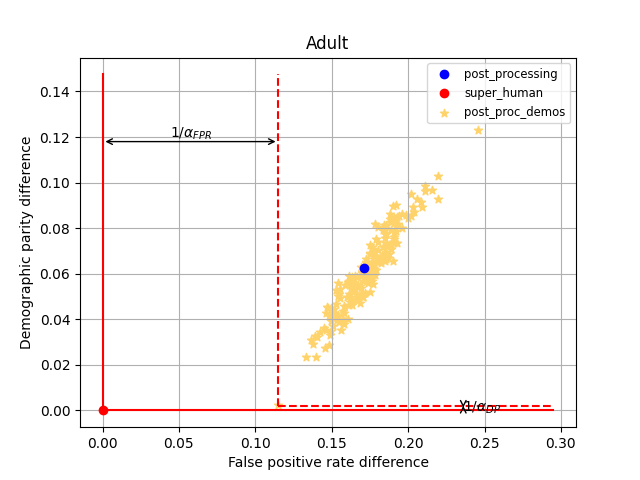
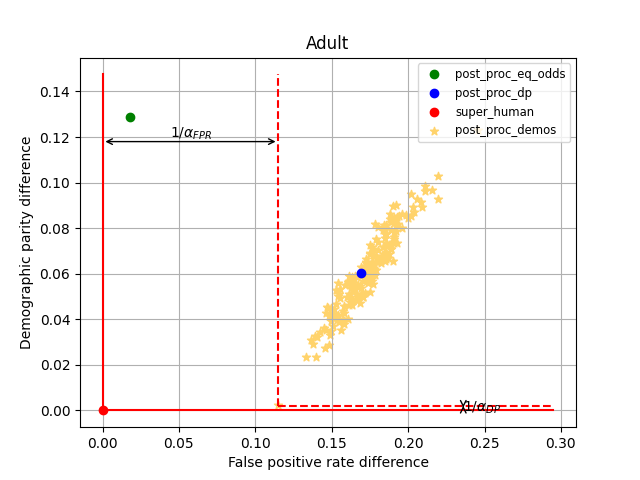
added post_processing with eq_odds constraint to the plots

Changed region(s): [[0.6562, 0.125, 0.9062, 0.3125], [0.5625, 0.5312, 0.5938, 0.5938], [0.1875, 0.2188, 0.2188, 0.25]]

diff --git a/main.py b/main.py
@@ -488,7 +488,7 @@ class Super_human:
 
 
 
-  def eval_model_pp(self):
+  def eval_model_pp(self, mode="demographic_parity"):
     train_file_path = os.path.join(self.train_data_path, "train_data.csv")
     test_file_path = os.path.join(self.test_data_path, "test_data.csv")
     self.train_data = pd.read_csv(train_file_path, index_col=0).drop(columns=['prev_index'])
@@ -509,7 +509,7 @@ class Super_human:
     # Post-processing
     postprocess_est = ThresholdOptimizer(
         estimator=model_logi,
-        constraints="demographic_parity", #"equalized_odds",
+        constraints=mode, #"equalized_odds",
         predict_method='auto',
         prefit=True)
     # Balanced data set is obtained by sampling the same number of points from the majority class (Y=0)
@@ -643,13 +643,15 @@ class Super_human:
 
   def test_model(self):
     eval_sh = self.eval_model(mode = "test-sh")
-    eval_pp = self.eval_model_pp()
+    eval_pp_dp = self.eval_model_pp(mode = "demographic_parity")
+    eval_pp_eq_odds = self.eval_model_pp(mode = "equalized_odds")
     print()
     print(eval_sh)
     print()
-    print(eval_pp)
+    print(eval_pp_dp)
     self.model_params["eval_sh"]= eval_sh
-    self.model_params["eval_pp"]= eval_pp
+    self.model_params["eval_pp_dp"]= eval_pp_dp
+    self.model_params["eval_pp_eq_odds"] = eval_pp_eq_odds
     experiment_filename = make_experiment_filename(dataset = self.dataset, lr_theta = self.lr_theta, lr_alpha = self.lr_alpha, num_of_demos = self.num_of_demos)
     file_dir = os.path.join(self.test_data_path)
     store_object(self.model_params, file_dir, experiment_filename)

diff --git a/plot.py b/plot.py
@@ -42,8 +42,10 @@ if __name__ == "__main__":
             f1 = plt.figure()
             x = model_params['eval_sh'].loc[feature[j]][0]
             y = model_params['eval_sh'].loc[feature[i]][0]
-            x_pp = model_params['eval_pp'].loc[feature[j]][0]
-            y_pp = model_params['eval_pp'].loc[feature[i]][0]
+            x_pp_dp = model_params['eval_pp_dp'].loc[feature[j]][0]
+            y_pp_dp = model_params['eval_pp_dp'].loc[feature[i]][0]
+            x_pp_eq_odds = model_params['eval_pp_eq_odds'].loc[feature[j]][0]
+            y_pp_eq_odds = model_params['eval_pp_eq_odds'].loc[feature[i]][0]
             newX = x + alpha[j]
             newY = y + alpha[i]
             xlim = max(max(demo_metric_j), newX)*1.2
@@ -55,7 +57,8 @@ if __name__ == "__main__":
             plt.ylabel(feature[i])
             plt.scatter(demo_metric_j, demo_metric_i, marker='*', c=[(255/255,211/255,107/255)], label = 'post_proc_demos')
             plt.plot(x, y, 'ro', label = 'super_human')
-            plt.plot(x_pp, y_pp, 'bo', label = 'post_processing')
+            plt.plot(x_pp_dp, y_pp_dp, 'bo', label = 'post_proc_dp')
+            plt.plot(x_pp_eq_odds, y_pp_eq_odds, 'go', label = 'post_proc_eq_odds')
             plt.plot([x, x], [y, ylim], 'r')
             plt.plot([x, xlim], [y, y], 'r')
             plt.plot([newX, newX], [newY, ylim], 'r--')
